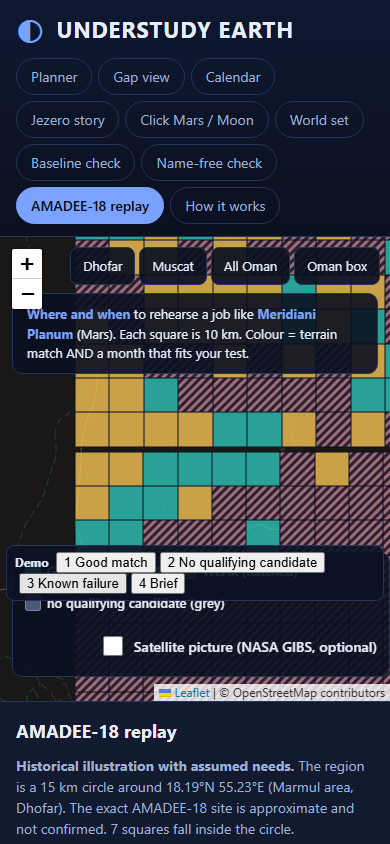
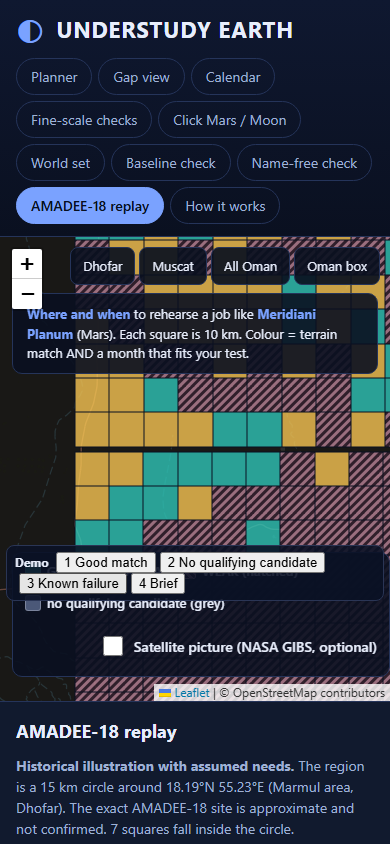
add Gale crater as a second fine-scale check (30 m HRSC mosaic, CC BY 4.0); Oxia Planum DTM tried but discarded (footprint too narrow)

Changed region(s): [[0.0615, 0.1232, 0.9231, 0.2156]]

diff --git a/app/app.js b/app/app.js
@@ -14,8 +14,8 @@
   var FIELDS = ['tlo', 'thi', 'wmin', 'wmax', 'rhmax', 'smin', 'swmax', 'limit'];
 
   function load(f, opt) { return fetch('data/' + f).then(function (r) { if (!r.ok) { if (opt) return null; throw new Error(f + ' ' + r.status); } return r.json(); }).catch(function (e) { if (opt) return null; throw e; }); }
-  Promise.all([load('meta.json'), load('earth.json'), load('targets.json'), load('results.json'), load('second_check.json'), load('climate_power.json'), load('landcover.json', true), load('baseline.json', true), load('stability.json', true), load('notes.json', true), load('access.json', true), load('jezero.json', true), load('meteomatics.json', true)]).then(function (a) {
-    D.meta = a[0]; D.earth = a[1]; D.targets = a[2]; D.results = a[3]; D.second = a[4]; D.power = a[5]; D.lc = a[6]; D.base = a[7]; D.stab = a[8]; D.notes = a[9]; D.acc = a[10]; D.jez = a[11]; D.mm = a[12];
+  Promise.all([load('meta.json'), load('earth.json'), load('targets.json'), load('results.json'), load('second_check.json'), load('climate_power.json'), load('landcover.json', true), load('baseline.json', true), load('stability.json', true), load('notes.json', true), load('access.json', true), load('jezero.json', true), load('meteomatics.json', true), load('gale.json', true)]).then(function (a) {
+    D.meta = a[0]; D.earth = a[1]; D.targets = a[2]; D.results = a[3]; D.second = a[4]; D.power = a[5]; D.lc = a[6]; D.base = a[7]; D.stab = a[8]; D.notes = a[9]; D.acc = a[10]; D.jez = a[11]; D.mm = a[12]; D.gale = a[13];
     SC = UEScore(D.meta); init();
   }).catch(function (e) {
     var el = $('loaderr'); el.hidden = false; el.textContent = 'Could not load the data files (' + e.message + '). Reload the page; if it persists the site files are missing.';
@@ -554,8 +554,28 @@
       '<tr><th>Jezero window, 30 m cells (finer check)</th><td>' + w.feat30.slope_p50.toFixed(2) + '° / ' + w.feat30.slope_p90.toFixed(2) + '°</td><td>' + w.feat30.rough_med.toFixed(2) + ' m; ' + Math.round(w.feat30.steep_share * 100) + '% of cells above 10°</td></tr></table>' +
       '<h3>Closest squares in the searched area, main method (500 m cells)</h3>' + sq(w.top500_oman) + '<p class="sub">Best distance ' + w.top500_oman[0].dist + ' (match below ' + D.meta.thr_match_dist.toFixed(2) + ', partial below ' + D.meta.thr_partial_dist.toFixed(2) + '): tier ' + GLABEL[SC.gapTier(w.top500_oman[0].dist)] + ' for the searched area (the closest square anywhere is in the Meteor Crater area).</p>' +
       '<h3>Closest squares in the searched area, 30 m check (slope, steepness, roughness at 30 m)</h3>' + sq(w.top30_oman) + '<p class="sub">The 30 m check has no calibrated threshold, so it gives a ranking only.</p>' +
-      '<div class="limits"><b>Limits.</b> ' + esc(J.note) + ' Only one 10 km window had at most 2% empty cells (the data footprint is slanted). Earth heights are a surface model (trees, buildings); Mars heights are bare ground. 30 m cells still hide rocks and steps that matter to a rover. A terrain match is not a geology match. Source: USGS Astrogeology Mars 2020 TRN HiRISE DTM mosaic of Jezero (see REFERENCES).</div>';
-    $('jez').onclick = function (ev) { var id = ev.target.getAttribute('data-jz'); if (!id) return; var e = D.earth.filter(function (x) { return x.id === id; })[0]; if (!e) return; document.querySelector('.tab[data-view=map]').click(); map.setView([e.lat, e.lon], 9); sel = e; renderAll(); };
+      '<div class="limits"><b>Limits.</b> ' + esc(J.note) + ' Only one 10 km window had at most 2% empty cells (the data footprint is slanted). Earth heights are a surface model (trees, buildings); Mars heights are bare ground. 30 m cells still hide rocks and steps that matter to a rover. A terrain match is not a geology match. Source: USGS Astrogeology Mars 2020 TRN HiRISE DTM mosaic of Jezero (see REFERENCES).</div>' +
+      renderGaleHtml();
+    $('jez').onclick = function (ev) {
+      var id = ev.target.getAttribute('data-jz') || ev.target.getAttribute('data-ga'); if (!id) return;
+      var e = D.earth.filter(function (x) { return x.id === id; })[0]; if (!e) return; document.querySelector('.tab[data-view=map]').click(); map.setView([e.lat, e.lon], 9); sel = e; renderAll();
+    };
+  }
+  function renderGaleHtml() {
+    var G = D.gale; if (!G || !G.windows.length) return '';
+    var sq = function (list) { return '<table><tr><th>Square</th><th>Where</th><th>Distance</th><th></th></tr>' + list.map(function (x) { return '<tr><td class="mono">' + x.id + '</td><td>' + esc(GROUPS[x.group]) + ' ' + x.lat.toFixed(2) + ', ' + x.lon.toFixed(2) + '</td><td class="mono">' + x.dist + '</td><td><button data-ga="' + x.id + '">Show</button></td></tr>'; }).join('') + '</table>'; };
+    var best = G.windows.slice().sort(function (a, b) { return a.top500_oman[0].dist - b.top500_oman[0].dist; })[0];
+    var bo = best.top500_oman[0];
+    var gverdict = GLABEL[SC.gapTier(bo.dist)] + ': ' + bo.id + ' scores ' + bo.dist + ' against this Gale window (lower is closer; threshold ' + D.meta.thr_match_dist.toFixed(3) + '); closest anywhere in our set ' + best.top500[0].dist + ' at ' + esc(GROUPS[best.top500[0].group]) + '.';
+    return '<h3 style="margin-top:2em">Gale crater (30 m HRSC mosaic, a second fine-scale check)</h3>' +
+      '<p class="sub">A second, independently sourced fine terrain model, for the Curiosity rover\'s Gale crater region. Native resolution is already 30 m, so there is no further finer check here (unlike Jezero\'s 1 m starting point). ' + G.windows.length + ' windows across the mosaic, closest to the crater centre shown here.</p>' +
+      '<p class="best">' + esc(gverdict) + '</p>' +
+      '<div class="twins"><figure><img src="data/relief/' + best.id + '.png" alt="Shaded relief of a Gale crater window" width="64" height="64"><div class="bar5"><i></i><span>5 km</span></div><figcaption>Gale crater, 10 km window (' + best.lat.toFixed(2) + ', ' + best.lon.toFixed(2) + ')<br>native 30 m (HRSC-based DTM), area-averaged to the picture grid</figcaption></figure>' +
+      '<figure><img src="data/relief/' + bo.id + '.png" alt="Shaded relief of the closest square in the searched area" width="64" height="64"><div class="bar5"><i></i><span>5 km</span></div><figcaption>Closest square in the searched area<br>native 30 m (Copernicus surface model)</figcaption></figure></div>' +
+      '<h4>All ' + G.windows.length + ' Gale windows, best square in the searched area for each</h4><table><tr><th>Window</th><th>Where</th><th>Slope p50/p90</th><th>Best in searched area</th><th>Tier</th></tr>' +
+      G.windows.map(function (w) { var b = w.top500_oman[0]; return '<tr><td class="mono">' + w.id + '</td><td>' + w.lat.toFixed(2) + ', ' + w.lon.toFixed(2) + '</td><td>' + w.feat500.slope_p50.toFixed(2) + '° / ' + w.feat500.slope_p90.toFixed(2) + '°</td><td class="mono">' + b.dist + '</td><td><span class="chip ' + SC.gapTier(b.dist) + '">' + GLABEL[SC.gapTier(b.dist)] + '</span></td></tr>'; }).join('') + '</table>' +
+      '<h4>Closest squares in the searched area for the best window</h4>' + sq(best.top500_oman) +
+      '<div class="limits"><b>Limits.</b> ' + esc(G.note) + ' Earth heights are a surface model (trees, buildings); Mars heights are bare ground. A terrain match is not a geology match. Source: 30-m HRSC DTM Mosaic of Gale Crater, Mars (Persaud, Putri, Muller, 2021, Zenodo, CC BY 4.0; see REFERENCES).</div>';
   }
 
   // ---- baseline and stability view

diff --git a/app/index.html b/app/index.html
@@ -16,7 +16,7 @@
     <button class="tab on" data-view="map">Planner</button>
     <button class="tab" data-view="gap">Gap view</button>
     <button class="tab" data-view="cal">Calendar</button>
-    <button class="tab" data-view="jez">Jezero story</button>
+    <button class="tab" data-view="jez">Fine-scale checks</button>
     <button class="tab" data-view="sky">Click Mars / Moon</button>
     <button class="tab" data-view="world">World set</button>
     <button class="tab" data-view="base">Baseline check</button>
@@ -92,7 +92,7 @@
       <div id="marsbox" class="skymap"><img id="marsimg" src="data/mars_preview.png" alt="Mars slope map between 87 S and 87 N: click for terrain numbers"><span id="marsmark" class="mark"></span></div>
       <div id="moonbox" hidden><canvas id="moonc" width="320" height="320" aria-label="Lunar south pole map, click for terrain numbers"></canvas></div><div id="skyres"></div></div>
     <div class="view" id="v-world"><h2>World set</h2><p class="sub"><b>A chosen set of places, not every place on Earth. No claim of a global best.</b> Deserts, volcanic fields, polar and mountain areas, plus Meteor Crater and the Atacama tile, scored with the same terrain method. Oman fine view: click the large Oman dot.</p><div id="worldmap"></div><div id="worldlist"></div></div>
-    <div class="view" id="v-jez"><h2>Jezero story</h2><div id="jez"></div></div>
+    <div class="view" id="v-jez"><h2>Fine-scale checks: Jezero and Gale</h2><div id="jez"></div></div>
     <div class="view" id="v-cal"><h2>Rehearsal calendar</h2><div id="cal"></div></div>
     <div class="view" id="v-base"><h2>Baseline and stability check</h2><div id="base"></div></div>
     <div class="view" id="v-blind"><h2>Name-free check</h2><div id="blind"></div></div>

diff --git a/pipeline/gale.py b/pipeline/gale.py
@@ -1,0 +1,72 @@
+"""Gale crater 30 m HRSC DTM mosaic (candidate/actual MSL landing site region), same method as the main pool: 10 km windows
+read as 20 x 20 cells of 500 m. Source: 30-m HRSC DTM Mosaic of Gale Crater, Mars (Persaud, Putri, Muller 2021, Zenodo
+10.5281/zenodo.5808354, CC BY 4.0; HRSC is ESA Mars Express, processed in part at NASA JPL). Native resolution is already
+30 m, so there is no finer 30 m check beyond the main method here (unlike Jezero, which starts from 1 m). Windows are read
+directly from the file's own projected coordinates (never the whole ~210 MB raster at once: each window reads only its
+own small patch). Writes app/data/gale.json and app/data/relief/GAL*.png."""
+import json, math, os, sys
+import numpy as np, rasterio
+from rasterio.windows import Window
+from rasterio.enums import Resampling
+from pyproj import Transformer
+sys.path.insert(0, os.path.dirname(__file__))
+import terrain as t, scoring as sc
+from build_windows import DATA, OUT
+from jezero import shade64, earth30, feats30
+
+def main():
+    path = os.path.join(DATA, "hrsc_km09_h1938_h1927_h1916-dtm-mosaic.tif")
+    if not os.path.exists(path):
+        print("Gale HRSC mosaic not found, skipping:", path); return
+    earth = json.load(open(os.path.join(OUT, "earth.json"))); targets = json.load(open(os.path.join(OUT, "targets.json")))
+    sc.set_scales(sc.feature_scales(earth))
+    GALE_LAT, GALE_LON, MAX_KM = -5.4, 137.8, 90.0  # crater centre and a radius comfortably inside the ~154 km-diameter rim
+    def hav(a, b, c, d):
+        p = math.pi / 180; x = math.sin((c - a) * p / 2) ** 2 + math.cos(a * p) * math.cos(c * p) * math.sin((d - b) * p / 2) ** 2; return 3389.5 * 2 * math.asin(math.sqrt(x))
+    cand = []
+    with rasterio.open(path) as s:
+        nod, px = s.nodata, abs(s.res[0])
+        win_px = int(round(10000 / px))           # 10 km in source pixels (about 333 at 30 m)
+        stride_px = int(round(2500 / px))          # 2.5 km stride, same spacing style as Jezero
+        tr0 = Transformer.from_crs(s.crs, s.crs.geodetic_crs, always_xy=True)
+        for r0 in range(0, s.height - win_px, stride_px):
+            for c0 in range(0, s.width - win_px, stride_px):
+                x, y = s.xy(r0 + win_px // 2, c0 + win_px // 2); lon, lat = tr0.transform(x, y)
+                if hav(GALE_LAT, GALE_LON, lat, lon) > MAX_KM: continue
+                a = s.read(1, window=Window(c0, r0, win_px, win_px), out_shape=(20, 20), resampling=Resampling.average).astype("float64")
+                nf = float((a == nod).mean()) if nod is not None else 0.0
+                if nf <= 0.02: cand.append((nf, r0, c0))
+    chosen = []
+    for nf, r, c in sorted(cand):
+        if all(abs(r - r2) >= win_px or abs(c - c2) >= win_px for _, r2, c2 in chosen): chosen.append((nf, r, c))
+        if len(chosen) >= 6: break
+    print("candidate windows", len(cand), "chosen", len(chosen))
+    wins = []
+    with rasterio.open(path) as s:
+        nod, px = s.nodata, abs(s.res[0])
+        win_px = int(round(10000 / px))
+        tr = Transformer.from_crs(s.crs, s.crs.geodetic_crs, always_xy=True)
+        for wi, (nf, r0, c0) in enumerate(chosen):
+            a = s.read(1, window=Window(c0, r0, win_px, win_px), out_shape=(20, 20), resampling=Resampling.average).astype("float64")
+            a = np.where(a == nod, np.nan, a)
+            a = np.where(np.isfinite(a), a, np.nanmean(a))
+            f = t.window_features(a)
+            shade64(a - np.nanmean(a)).save(os.path.join(OUT, "relief", "GAL%d.png" % wi), optimize=True)
+            x, y = s.xy(r0 + win_px // 2, c0 + win_px // 2)
+            lon, lat = tr.transform(x, y)
+            wins.append({"id": "GAL%d" % wi, "feat500": f, "feat30": None, "empty_cells_pct": round(100 * nf, 1), "lat": round(lat, 2), "lon": round(lon, 2)})
+    e30 = None  # native resolution is already 30 m: no finer check beyond the 500 m method for this site
+    for w in wins:
+        d500 = np.array([sc.distance(e, w["feat500"]) for e in earth])
+        w["top500"] = [{"id": earth[i]["id"], "group": earth[i]["group"], "lat": earth[i]["lat"], "lon": earth[i]["lon"], "dist": round(float(d500[i]), 3)} for i in np.argsort(d500)[:5]]
+        om = [i for i in np.argsort(d500) if earth[i]["group"].startswith("oman")][:5]
+        w["top500_oman"] = [{"id": earth[i]["id"], "group": earth[i]["group"], "lat": earth[i]["lat"], "lon": earth[i]["lon"], "dist": round(float(d500[i]), 3)} for i in om]
+        w["best500_tier"] = "match" if d500.min() < 0.081 else ("partial" if d500.min() < 0.245 else "gap")
+    ga = [x for x in targets if x["name"] == "Gale landing area (Bradbury)"][0]
+    out = {"windows": wins, "note": "30 m HRSC DTM mosaic of Gale crater (CC BY 4.0, Persaud/Putri/Muller 2021); native resolution is already 30 m, so there is no finer check here (unlike the Jezero 1 m case). Not the whole crater; a handful of 10 km windows across the mosaic.",
+           "source_mola_target": ga["id"], "mola_best500_dist": round(float(min(sc.distance(e, ga) for e in earth)), 3)}
+    json.dump(out, open(os.path.join(OUT, "gale.json"), "w"), separators=(",", ":"))
+    for w in wins: print(w["id"], w["lat"], w["lon"], "500m p50 %.2f p90 %.2f" % (w["feat500"]["slope_p50"], w["feat500"]["slope_p90"]), "top500", [(x["id"], x["dist"]) for x in w["top500"][:3]])
+
+if __name__ == "__main__":
+    main()

diff --git a/docs/PROGRESS.md b/docs/PROGRESS.md
@@ -1,7 +1,7 @@
 # PROGRESS
 
 ## RESUME HERE
-- Current state (2026-11-15, Prompt 3 / final pass, feature freeze 16:00 Muscat): BUILT this pass — (1) Meteomatics pulled and published for 12 Oman points (owner's call to publish under the Space Apps participant grant, see REFERENCES.md), compared with NASA POWER (large, consistent disagreement: Meteomatics daily max several degrees cooler, daily min several degrees warmer than POWER), AMADEE-18 February re-checked with it (flips the verdict: February becomes a best month under Meteomatics, is not under POWER; both shown, neither forced); (2) integrity fixes — "Oman" renamed to "searched area" wherever 90 m/pool v2 data is included, a one-sentence Jezero match verdict added, a steep-ground caution on Mars/Moon click results; (3) day-night air temperature swing promoted from a context row to a real user-set, scored test need (slider, sentence-box phrase, Fit Verdict bar); (4) extra-factors research re-checked, final BUILT/CONTEXT-ROW/SKIPPED verdicts written (nothing new built there; the physics genuinely does not line up across bodies); (5) world set expanded 27 -> 45 places (GCC beyond Oman, wider MENA, other arid/volcanic/polar/mountain belts), selection rule written before scoring, in VALIDATION.md; (6) click-on-Mars extended 60S-60N -> 87S-87N with area-correct windows (longitude width scales as 1/cos(lat)); (7) optional NASA GIBS satellite picture layer on the Planner map, off by default, OSM fallback on tile error. NOT BUILT this pass (reasons, not just time): Moon north pole DEM (PGDA has no public 80N product at the expected path, only south pole product 90 was found; LOLA_PA global 64/128 px-per-degree product exists but is 715MB-2.7GB, too large to safely fetch and process in the time left) and the related coarse-global-Moon layer; additional fine Mars DTMs beyond Jezero (time); Mars Trek / Moon Trek picture layers (the click panels use a static precomputed image, not a Leaflet map, so adding tile layers there needs more rework than time allowed; Earth's GIBS layer was built instead since the Planner already has a real map); 3D view (left off per the existing docs/3D_FEASIBILITY.md, as planned, since everything above came first); global tile-by-tile GLO-90 scan (stage d) — the lighter single-point world-set expansion was done instead. Earlier passes (Prompt 2A/2B) remain as before: geology notes, OSM access, Jezero 30 m story, optional whole-Oman 90 m layer (pool v1 frozen; pool v2 what-if in VALIDATION.md), click-on-Moon south pole only.
+- Current state (2026-11-15, Prompt 3 / final pass, feature freeze 16:00 Muscat): BUILT this pass — (1) Meteomatics pulled and published for 12 Oman points (owner's call to publish under the Space Apps participant grant, see REFERENCES.md), compared with NASA POWER (large, consistent disagreement: Meteomatics daily max several degrees cooler, daily min several degrees warmer than POWER), AMADEE-18 February re-checked with it (flips the verdict: February becomes a best month under Meteomatics, is not under POWER; both shown, neither forced); (2) integrity fixes — "Oman" renamed to "searched area" wherever 90 m/pool v2 data is included, a one-sentence Jezero match verdict added, a steep-ground caution on Mars/Moon click results; (3) day-night air temperature swing promoted from a context row to a real user-set, scored test need (slider, sentence-box phrase, Fit Verdict bar); (4) extra-factors research re-checked, final BUILT/CONTEXT-ROW/SKIPPED verdicts written (nothing new built there; the physics genuinely does not line up across bodies); (5) world set expanded 27 -> 45 places (GCC beyond Oman, wider MENA, other arid/volcanic/polar/mountain belts), selection rule written before scoring, in VALIDATION.md; (6) click-on-Mars extended 60S-60N -> 87S-87N with area-correct windows (longitude width scales as 1/cos(lat)); (7) optional NASA GIBS satellite picture layer on the Planner map, off by default, OSM fallback on tile error; (8) a second fine terrain model, Gale crater (30 m HRSC mosaic, CC BY 4.0), alongside Jezero in a renamed "Fine-scale checks" tab — a single-pair HiRISE Oxia Planum DTM was tried first but its footprint (about 5.5 km) was too narrow for a 10 km window, so it was discarded and Gale was used instead. NOT BUILT this pass (reasons, not just time): Moon north pole DEM (PGDA has no public 80N product at the expected path, only south pole product 90 was found; LOLA_PA global 64/128 px-per-degree product exists but is 715MB-2.7GB, too large to safely fetch and process in the time left) and the related coarse-global-Moon layer; additional fine Mars DTMs beyond Jezero (time); Mars Trek / Moon Trek picture layers (the click panels use a static precomputed image, not a Leaflet map, so adding tile layers there needs more rework than time allowed; Earth's GIBS layer was built instead since the Planner already has a real map); 3D view (left off per the existing docs/3D_FEASIBILITY.md, as planned, since everything above came first); global tile-by-tile GLO-90 scan (stage d) — the lighter single-point world-set expansion was done instead. Earlier passes (Prompt 2A/2B) remain as before: geology notes, OSM access, Jezero 30 m story, optional whole-Oman 90 m layer (pool v1 frozen; pool v2 what-if in VALIDATION.md), click-on-Moon south pole only.
 - Deploy: `git subtree push --prefix app origin gh-pages`; owner must enable Pages (Settings > Pages > gh-pages / root). Link: https://samaralhadhrami.github.io/understudy-earth/
 - Tests: `python -m pytest tests -q`, `node tests/check_js_score.js`, `node tests/check_needs.js`, `PYTHONIOENCODING=utf-8 python tests/run_browser.py`.
 - Rebuild data: `python pipeline/build_windows.py && python pipeline/analyse.py && python pipeline/verify.py && python pipeline/power.py`.

diff --git a/docs/VALIDATION.md b/docs/VALIDATION.md
@@ -81,3 +81,6 @@ World set: 45 chosen places at 90 m (dots, coarse) plus Meteor Crater, the Ataca
 
 ### World set v2 (rule written before adding or scoring any new place, 2026-11-15)
 Rule: add single reference points (not a full tile scan, for time reasons) to the existing 90 m world-sites pipeline (`pipeline/world_sites.py`), grouped into the categories the challenge names ("beyond well-known sites"): (a) GCC countries beyond what is already covered (UAE, Saudi Arabia, Qatar, Bahrain, Kuwait); (b) wider Middle East and North Africa (Sahara belt countries, Levant, Arabian Peninsula highlands); (c) other arid and volcanic belts worldwide (Central Asia, Southwest US, Andes/Puna, East African rift, Canary/Atlantic islands, Kamchatka/Aleutians) and polar/mountain areas, extending what pool already has rather than duplicating it. Famous already-cited sites (Atacama, Meteor Crater, Haughton, Death Valley, Antarctica, Iceland, Hawaii) are NOT duplicated; only new places are added. Coordinates are approximate reference points picked by the agent from public place names/gazetteers before any scoring was run; no place was chosen or dropped because of how it scored. Still a chosen and scanned set, not every place on Earth, and no claim of a global best. Same method, same thresholds, no tuning. Results (rank/tier changes, if any) are reported in the Finish summary, not hidden.
+
+## 12. Gale crater fine-scale check (second fine terrain model, 2026-11-15)
+A second fine terrain model beyond Jezero, to satisfy "2 to 4 more fine terrain models for key landing sites" where freely licensed data could actually be found in the time available. Attempted first: a single-pair HiRISE 1 m DTM over Oxia Planum (DTEEC_063839_1980_064261_1980_H01, NASA/JPL-Caltech/UArizona, PDS3, 333 MB) — downloaded and opened fine with rasterio's PDS driver, but its footprint is only about 5.5 km wide, too narrow for even one 10 km window, so it was discarded (not committed, not counted). Used instead: the 30-m HRSC DTM Mosaic of Gale Crater (Persaud/Putri/Muller 2021, CC BY 4.0, see REFERENCES.md), which covers a wide area (227 x 308 km) around Gale crater. `pipeline/gale.py` reads 10 km windows directly by geo-coordinate (never the whole ~210 MB file at once), keeps candidates within 90 km of the crater centre (-5.4, 137.8) with at most 2% missing data, and picks 6 non-overlapping windows lowest on missing data first — a rule fixed before scoring, same style as the Jezero window rule. Because the source is already 30 m native, there is no finer sub-check here (Jezero starts from 1 m and has a 30 m step in between; Gale does not). Result: the 6 windows land near the northern part of the crater (about 50-65 km from centre, within the 90 km search radius but not at the exact centre, since the search simply takes the least-missing-data windows in that radius). Best window's closest square in the searched area: see the app's Fine-scale checks tab for the live number (varies slightly with any future re-run); several windows land in PARTIAL or MATCH tiers against the searched-area pool, consistent with Gale crater's existing MATCH/PARTIAL status in the main 463 m MOLA-based pool results. This is a second, independently sourced cross-check, not a new target and not added to the reference pool.

diff --git a/docs/REFERENCES.md b/docs/REFERENCES.md
@@ -8,6 +8,7 @@
 - ESA WorldCover 10 m 2021 v200, ESA / VITO, CC BY 4.0 (AWS registry listing), bucket esa-worldcover, anonymous HTTP reads, no login. Windowed reads of cloud-optimised tiles over HTTPS. Derived tree/crop/built-up shares per square are shown with the credit "Contains ESA WorldCover data, CC BY 4.0". Licence taken from the AWS Open Data registry listing; full licence text not reopened.
 - AMADEE-18: Austrian Space Forum, oewf.org/en/amadee-18 (opened 2026-11-14): February 2018, four weeks, Dhofar; expected February temperatures 16-27 C, under 10 mm precipitation; no numeric test limits.
 - Mars 2020 TRN HiRISE DTM mosaic of Jezero, USGS Astrogeology, 2020.
+- 30-m HRSC DTM Mosaic of Gale Crater, Mars, Persaud, D. M., Putri, A. D. R., Muller, J.-P. (2021), Zenodo, doi 10.5281/zenodo.5808354, CC BY 4.0. Processed from ESA Mars Express HRSC stereo images (H1938_0000, H1927_0000, H1916_0000); the README states part of the work was carried out at NASA JPL under NASA contract. Downloaded directly (data/, git-ignored, 312 MB), read in geo-referenced windows (never the whole file); only derived per-window terrain numbers and small shaded-relief pictures are published (app/data/gale.json, app/data/relief/GAL*.png). Native resolution is already 30 m, so unlike Jezero there is no finer sub-check. Six 10 km windows within 90 km of the crater centre (-5.4, 137.8), chosen by lowest missing-data fraction, non-overlapping, same method as the main pool.
 ## Rover slope reference points (observed values, not limits)
 - Curiosity maximum tilt 25.34 degrees (sol 2477) and maximum pitch 25.22 degrees (sol 2476) through sol 2488: Rankin, Maimone, Biesiadecki, Patel, Levine, Toupet, "Driving Curiosity: Mars Rover Mobility Trends During the First Seven Years", JPL, 2019 (robotics.jpl.nasa.gov/media/documents/2020-mobility-trending.pdf), Table 1. Observed peaks, not limits.
 - Opportunity tilt reached 32 degrees on 2016-03-10, the steepest slope driven by any Mars rover: NASA JPL news, "Rover Takes on Steepest Slope Ever Tried on Mars", 2016-03-31, jpl.nasa.gov.

diff --git a/docs/APP_FLOW.md b/docs/APP_FLOW.md
@@ -8,6 +8,6 @@
 7. Gap view, Name-free check, AMADEE-18 replay (historical illustration with assumed needs, circle on map), How it works.
 8. Demo bar on the map: 1 Good match, 2 No qualifying candidate, 3 Brief (real computed outputs).
 9. Share link: choices are stored in the address (#t=...&tlo=...).
-10. Jezero story tab: finer-scale check against the Jezero DTM with twin pictures and the closest Oman squares. Result card also shows access (OpenStreetMap) and geology notes for Dhofar and Muscat squares. Checkbox "Show whole-Oman 90 m squares" adds an optional coarser layer.
+10. Fine-scale checks tab: finer-scale checks against the Jezero DTM (1 m, with a 30 m step) and the Gale crater HRSC mosaic (30 m, second site), each with twin pictures and the closest squares in the searched area. Result card also shows access (OpenStreetMap) and geology notes for Dhofar and Muscat squares. Checkbox "Show whole-Oman 90 m squares" adds an optional coarser layer.
 11. Click Mars / Moon tab: click the Mars slope map (87 S to 87 N) or the lunar south-pole disc; shows the nearest window, its numbers, closest Oman squares, Fit Verdict and a Low-confidence note. Unknown where data is missing.
 12. World set tab: dots for 45 chosen places plus Meteor Crater, Atacama and Oman, coloured by terrain tier for the chosen target; the large Oman dot opens the fine map.

diff --git a/docs/BACKEND_SCHEMA.md b/docs/BACKEND_SCHEMA.md
@@ -12,6 +12,8 @@
 - `notes.json`: geology notes per group with the source text for each statement.
 - `access.json`: {id: [km to paved/main road, km to town, town name]} derived from OpenStreetMap (ODbL).
 - `jezero.json`: Jezero window statistics at 500 m and 30 m and the closest squares (both checks).
+- `gale.json`: Gale crater (30 m HRSC mosaic) window statistics and the closest squares (second fine-scale check, no 30 m sub-step since the source is already 30 m).
+- `meteomatics.json`: Meteomatics monthly derived values for 12 Oman points (day max/min, wind, humidity, sunshine, precipitation), with attribution and pull date.
 - `earth90.json`: 4756 squares from GLO-90 (same fields as earth.json, group oman90), loaded only when the 90 m layer is switched on. `pool_v2.json`: summary of the what-if with the combined pool.
 - `climate_power.json` now covers 189 cells (the 90 m squares included).
 - `mars_grid.bin` + `mars_grid.json` (windows over 87 S to 87 N), `mars_preview.png` (slope preview, 720 x 412), `moon_grid.json` (705 polar windows), `world.json` (45 chosen sites with their 90 m squares).
